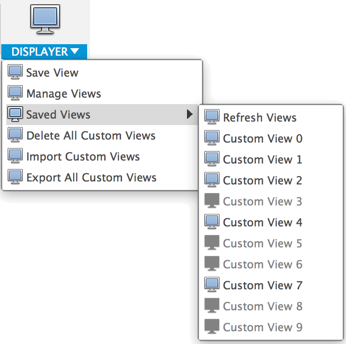
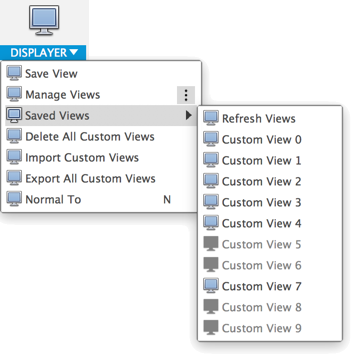
Added a Normal To command

Changed region(s): [[0.0, 0.0, 1.0, 1.0]]

diff --git a/SaveViewCommand.py b/SaveViewCommand.py
@@ -619,3 +619,52 @@ class ImportViewsCommand(Fusion360CommandBase):
 class RefreshViewsCommand(Fusion360CommandBase):
     def on_execute(self, command: adsk.core.Command, inputs: adsk.core.CommandInputs, args, input_values):
         refresh_custom_views()
+
+
+class NormalToCommand(Fusion360CommandBase):
+    def on_execute(self, command: adsk.core.Command, inputs: adsk.core.CommandInputs, args, input_values):
+        ao = AppObjects()
+
+        active_object = ao.design.activeEditObject
+
+        # ao.ui.messageBox(active_object.name)
+        # selections = ao.ui.activeSelections
+        if active_object.objectType == adsk.fusion.Sketch.classType():
+
+            selections = ao.ui.activeSelections
+            # old_selections = selections.asArray()
+            #
+            selections.clear()
+            # adsk.doEvents()
+            selections.add(active_object)
+            ao.ui.commandDefinitions.itemById("LookAtCommand").execute()
+            ao.ui.commandDefinitions.itemById("cmdID_NormalToSketchCommand").execute()
+            # ao.app.activeViewport.refresh()
+            # ao.app.activeViewport.fit()
+            # adsk.doEvents()
+            # selections.clear()
+
+        else:
+            ao.ui.commandDefinitions.itemById("LookAtCommand").execute()
+
+        # adsk.doEvents()
+        # selections.clear()
+            # ao.ui.terminateActiveCommand()
+
+            # for old_selection in old_selections:
+            #     if adsk.core.Base.cast(old_selection.entity) is not None:
+            #         selections.add(old_selection.entity)
+            # ao.ui.terminateActiveCommand()
+
+
+class NormalToSketchCommand(Fusion360CommandBase):
+    def on_execute(self, command: adsk.core.Command, inputs: adsk.core.CommandInputs, args, input_values):
+        ao = AppObjects()
+        ao.app.activeViewport.refresh()
+        selections = ao.ui.activeSelections
+        selections.clear()
+        ao.app.activeViewport.fit()
+        ao.ui.terminateActiveCommand()
+        selections = ao.ui.activeSelections
+        selections.clear()
+

diff --git a/FusionDisplayer.py b/FusionDisplayer.py
@@ -2,7 +2,8 @@
 # Could import multiple Command definitions here
 from .Demo1Command import Demo1Command
 from .SaveViewCommand import SetViewCommand, CaptureViewCommand, ManageViewsCommand, \
-    DeleteAllViewsCommand, ImportViewsCommand, ExportAllViewsCommand, RefreshViewsCommand
+    DeleteAllViewsCommand, ImportViewsCommand, ExportAllViewsCommand, RefreshViewsCommand, \
+    NormalToCommand, NormalToSketchCommand
 from .DemoPaletteCommand import DemoPaletteShowCommand, DemoPaletteSendCommand
 
 commands = []
@@ -107,6 +108,34 @@ cmd = {
     'toolbar_panel_id': 'Displayer',
     'command_promoted': False,
     'class': ExportAllViewsCommand
+}
+command_definitions.append(cmd)
+
+
+# Define parameters for 1st command
+cmd = {
+    'cmd_name': 'Normal To',
+    'cmd_description': 'Look At, with enhancements',
+    'cmd_id': 'cmdID_NormalToCommand',
+    'cmd_resources': './resources',
+    'workspace': 'FusionSolidEnvironment',
+    'toolbar_panel_id': 'Displayer',
+    'command_promoted': False,
+    'class': NormalToCommand
+}
+command_definitions.append(cmd)
+
+# Define parameters for 1st command
+cmd = {
+    'cmd_name': 'Normal To',
+    'cmd_description': 'Look At, with enhancements',
+    'cmd_id': 'cmdID_NormalToSketchCommand',
+    'cmd_resources': './resources',
+    'workspace': 'FusionSolidEnvironment',
+    'toolbar_panel_id': 'Displayer',
+    'command_promoted': False,
+    'command_visible': False,
+    'class': NormalToSketchCommand
 }
 command_definitions.append(cmd)
 

diff --git a/README.md b/README.md
@@ -54,6 +54,13 @@ Exports all the views that you have saved in this model.
 
 _Note: exporting appearances is not supported_
 
+### Normal To
+
+Executes the standard "Look At" command.
+
+_Except if it is a sketch.  Then it still executes a normal to sketch view and does a fit view._
+
+The primary use case is that it gives you ability to assign a keyboard shortcut.
 
 ## Custom keyboard shortcuts
 
